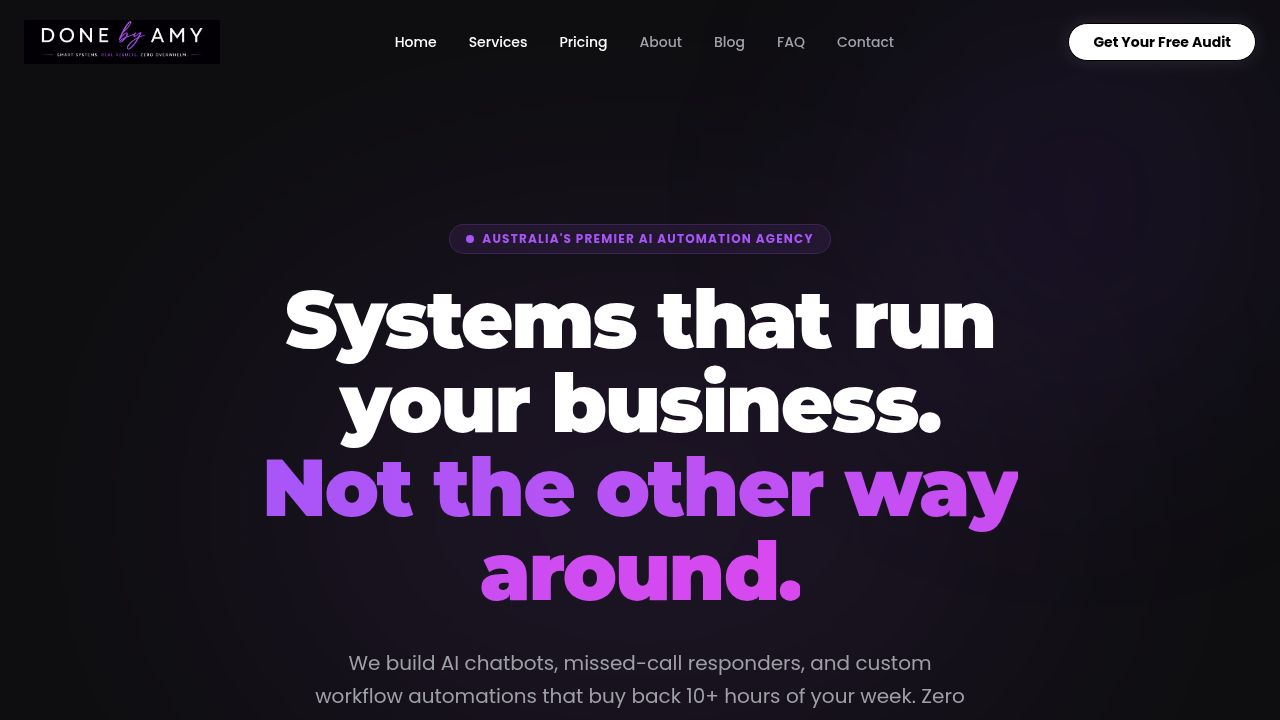
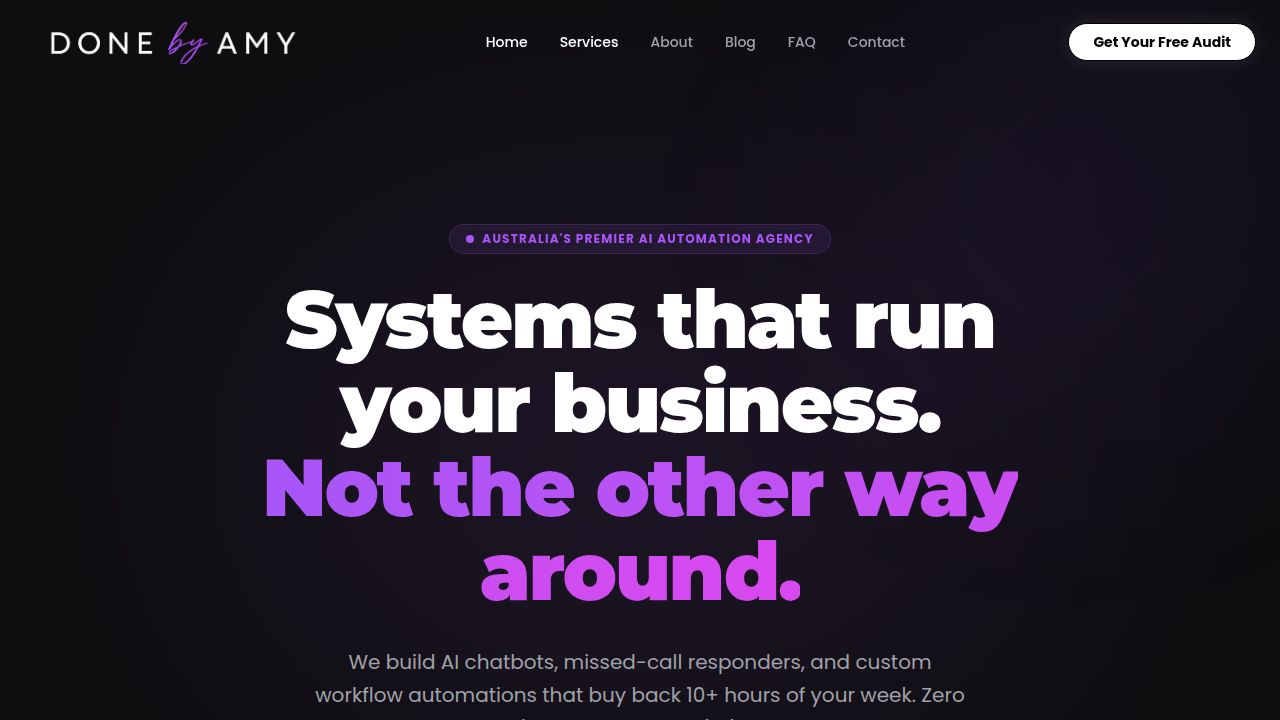
Improve website performance by optimizing image formats and loading
Converts large PNG images to WebP format, adds lazy loading and async decoding to images across multiple pages to significantly reduce mobile load times.

Replit-Commit-Author: Agent
Replit-Commit-Session-Id: a9ec4282-38a7-412a-a60c-fc679b439479
Replit-Commit-Checkpoint-Type: full_checkpoint
Replit-Commit-Event-Id: 456eebb1-4dde-4c06-9841-38ffada4e868
Replit-Commit-Screenshot-Url: https://storage.googleapis.com/screenshot-production-us-central1/72a25454-6006-4e30-8542-b3e00eeba941/a9ec4282-38a7-412a-a60c-fc679b439479/YQw2fdv
Replit-Helium-Checkpoint-Created: true

diff --git a/artifacts/done-by-amy/src/pages/home.tsx b/artifacts/done-by-amy/src/pages/home.tsx
@@ -10,9 +10,9 @@ import {
 } from "lucide-react";
 import { Button } from "@/components/ui/button";
 
-import lcPhone from "../assets/leadcatch_phone_nobg.png";
-import autoDialScreen from "../assets/autodial_nobg.png";
-import yardYakkaApp from "../assets/yard_yakka_app_nobg.png";
+import lcPhone from "../assets/leadcatch_phone_nobg.webp";
+import autoDialScreen from "../assets/autodial_nobg.webp";
+import yardYakkaApp from "../assets/yard_yakka_app_nobg.webp";
 
 const fadeUp: Variants = {
   hidden: { opacity: 0, y: 30 },
@@ -261,7 +261,7 @@ export default function Home() {
                   Instant SMS auto-reply to every missed call. Capture the lead before your competitor does.
                 </p>
                 <div className="mt-auto pt-6 flex justify-center h-48 items-end">
-                  <img src={lcPhone} alt="LeadCatch screen" className="max-h-44 w-auto object-contain drop-shadow-2xl mb-6" />
+                  <img src={lcPhone} alt="LeadCatch screen" loading="lazy" decoding="async" className="max-h-44 w-auto object-contain drop-shadow-2xl mb-6" />
                 </div>
                 <Link href="/leadcatch" className="inline-flex items-center gap-2 text-white font-bold text-sm group-hover:text-primary transition-colors">
                   Explore LeadCatch <ArrowRight className="w-4 h-4 transition-transform group-hover:translate-x-1" />
@@ -285,7 +285,7 @@ export default function Home() {
                   A human-sounding voice agent that qualifies leads, handles objections and books appointments — 24/7.
                 </p>
                 <div className="mt-auto pt-6 flex justify-center h-48 items-end">
-                  <img src={autoDialScreen} alt="AutoDial" className="max-h-44 w-auto object-contain drop-shadow-2xl mb-6" />
+                  <img src={autoDialScreen} alt="AutoDial" loading="lazy" decoding="async" className="max-h-44 w-auto object-contain drop-shadow-2xl mb-6" />
                 </div>
                 <Link href="/autodial" className="inline-flex items-center gap-2 text-white font-bold text-sm group-hover:text-primary transition-colors">
                   Explore AutoDial <ArrowRight className="w-4 h-4 transition-transform group-hover:translate-x-1" />
@@ -304,7 +304,7 @@ export default function Home() {
                   A bespoke mobile app + 6-step workflow gave Lucas back half a week — invoicing, NDIS reporting and reconciliation, all hands-off.
                 </p>
                 <div className="mt-auto pt-6 flex justify-center h-48 items-end">
-                  <img src={yardYakkaApp} alt="Yard Yakka App" className="max-h-44 w-auto object-contain drop-shadow-2xl mb-6" />
+                  <img src={yardYakkaApp} alt="Yard Yakka App" loading="lazy" decoding="async" className="max-h-44 w-auto object-contain drop-shadow-2xl mb-6" />
                 </div>
                 <Link href="/case-studies/yard-yakka" className="inline-flex items-center gap-2 text-white font-bold text-sm group-hover:text-primary transition-colors">
                   Read the case study <ArrowRight className="w-4 h-4 transition-transform group-hover:translate-x-1" />

diff --git a/artifacts/done-by-amy/src/pages/autodial.tsx b/artifacts/done-by-amy/src/pages/autodial.tsx
@@ -6,7 +6,7 @@ import Footer from "@/components/footer";
 import { Button } from "@/components/ui/button";
 import { CheckCircle2, PhoneOutgoing, Mic, CalendarCheck, TrendingUp, ChevronRight } from "lucide-react";
 
-import autoDialScreen from "../assets/autodial_nobg.png";
+import autoDialScreen from "../assets/autodial_nobg.webp";
 
 const fadeUp: Variants = {
   hidden: { opacity: 0, y: 30 },
@@ -48,7 +48,7 @@ export default function AutoDial() {
             >
               <div className="relative w-full max-w-[480px]">
                 <div className="absolute inset-0 bg-primary/15 rounded-full blur-3xl scale-75" />
-                <img src={autoDialScreen} alt="AutoDial Dashboard" className="relative z-10 w-full object-contain drop-shadow-2xl" />
+                <img src={autoDialScreen} alt="AutoDial Dashboard" decoding="async" className="relative z-10 w-full object-contain drop-shadow-2xl" />
               </div>
             </motion.div>
 

diff --git a/artifacts/done-by-amy/src/pages/leadcatch.tsx b/artifacts/done-by-amy/src/pages/leadcatch.tsx
@@ -6,7 +6,7 @@ import Footer from "@/components/footer";
 import { Button } from "@/components/ui/button";
 import { CheckCircle2, PhoneCall, MessageSquare, Clock, ShieldCheck, ChevronRight } from "lucide-react";
 
-import lcPhone from "../assets/leadcatch_phone_nobg.png";
+import lcPhone from "../assets/leadcatch_phone_nobg.webp";
 
 const fadeUp: Variants = {
   hidden: { opacity: 0, y: 30 },
@@ -74,7 +74,7 @@ export default function LeadCatch() {
             >
               <div className="relative w-full max-w-[440px]">
                 <div className="absolute inset-0 bg-gradient-to-tr from-primary/20 to-secondary/20 rounded-[40px] blur-2xl transform rotate-6 scale-95" />
-                <img src={lcPhone} alt="LeadCatch Interface" className="relative z-10 w-full object-contain drop-shadow-2xl" />
+                <img src={lcPhone} alt="LeadCatch Interface" decoding="async" className="relative z-10 w-full object-contain drop-shadow-2xl" />
               </div>
             </motion.div>
           </div>

diff --git a/artifacts/done-by-amy/src/pages/yard-yakka.tsx b/artifacts/done-by-amy/src/pages/yard-yakka.tsx
@@ -6,7 +6,7 @@ import Footer from "@/components/footer";
 import { Button } from "@/components/ui/button";
 import { ChevronRight, ClipboardCheck, FileText, Database, Bell, Wallet, CheckCircle2 } from "lucide-react";
 
-import yardYakkaApp from "../assets/yard_yakka_app_nobg.png";
+import yardYakkaApp from "../assets/yard_yakka_app_nobg.webp";
 
 const fadeUp: Variants = {
   hidden: { opacity: 0, y: 30 },
@@ -73,7 +73,7 @@ export default function YardYakka() {
             >
               <div className="relative w-full max-w-[300px]">
                 <div className="absolute inset-0 bg-primary/20 rounded-full blur-3xl scale-90" />
-                <img src={yardYakkaApp} alt="Yard Yakka App" className="relative z-10 w-full object-contain drop-shadow-2xl" />
+                <img src={yardYakkaApp} alt="Yard Yakka App" decoding="async" className="relative z-10 w-full object-contain drop-shadow-2xl" />
               </div>
             </motion.div>
           </div>